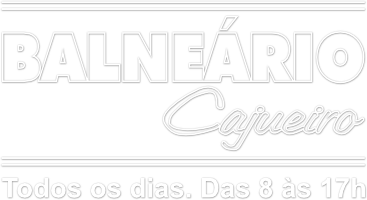
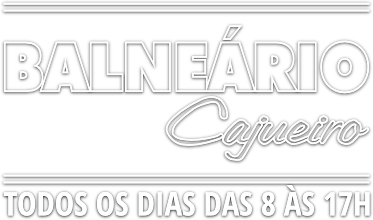
Use Open Sans Condensed in the overlay.png

Changed region(s): [[0.0, 0.0, 1.0, 1.0], [0.7193, 0.24, 0.7493, 0.3]]

diff --git a/js/jsx/BackStretch.jsx b/js/jsx/BackStretch.jsx
@@ -78,7 +78,7 @@ define(['react'], function(React) {
       return (
         <div id="backstretch" style={{height: boundingHeight}}>
           <div id="overlay">
-            <img src="/imgs/overlay.png" width="367" height="200"/>
+            <img src="/imgs/overlay.png" width="373" height="220"/>
           </div>
           <img src={img.src} width={img.width} height={img.height} style={imageStyle} />
         </div>

diff --git a/scss/_settings.scss b/scss/_settings.scss
@@ -1442,6 +1442,6 @@ $topbar-divider-border-top: solid 1px scale-color($topbar-bg-color, $lightness: 
 $calculator-bg-color: white;
 $serif-font-stack: Georgia, serif;
 $footer-height: 55px;
-$overlay-height: 200px;
+$overlay-height: 220px;
 $overlay-margin: 40px;
 $footer-bg-color: rgba($topbar-bg-color, 0.95);
